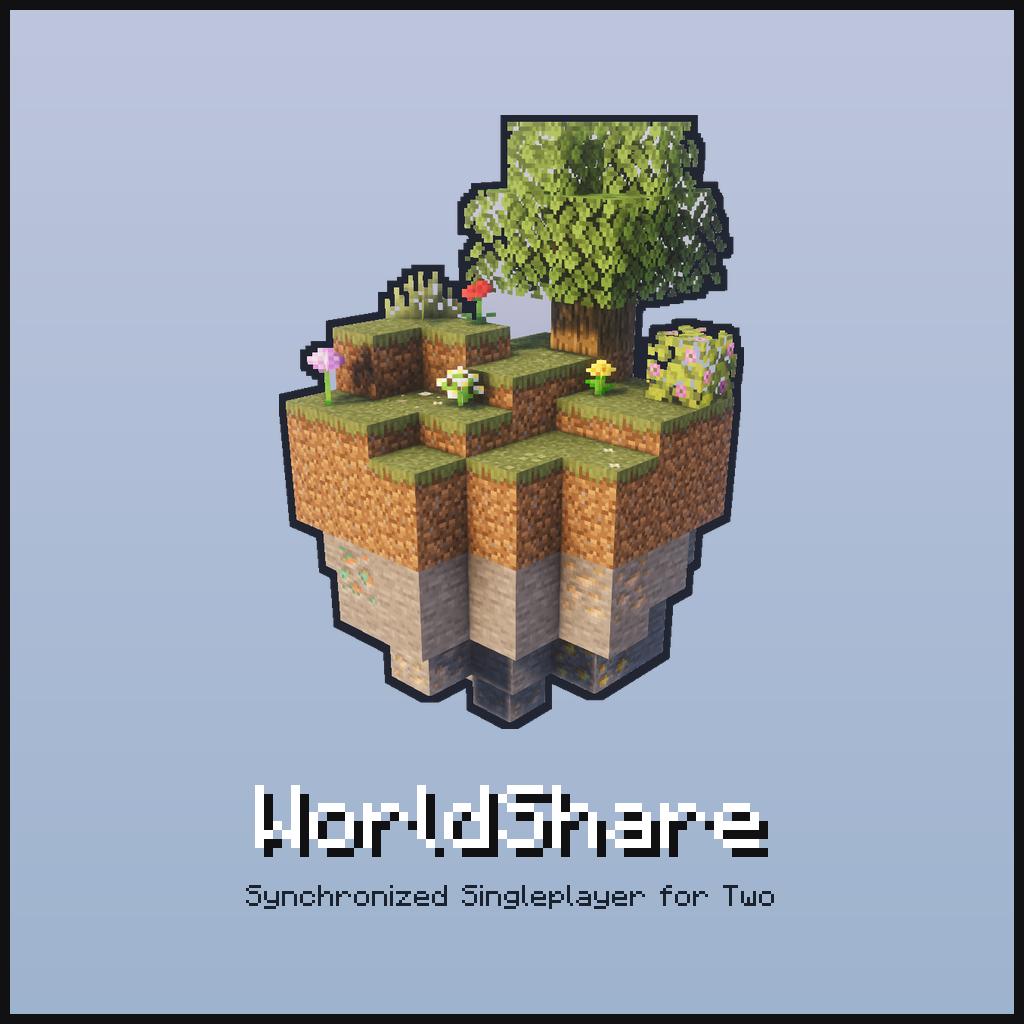
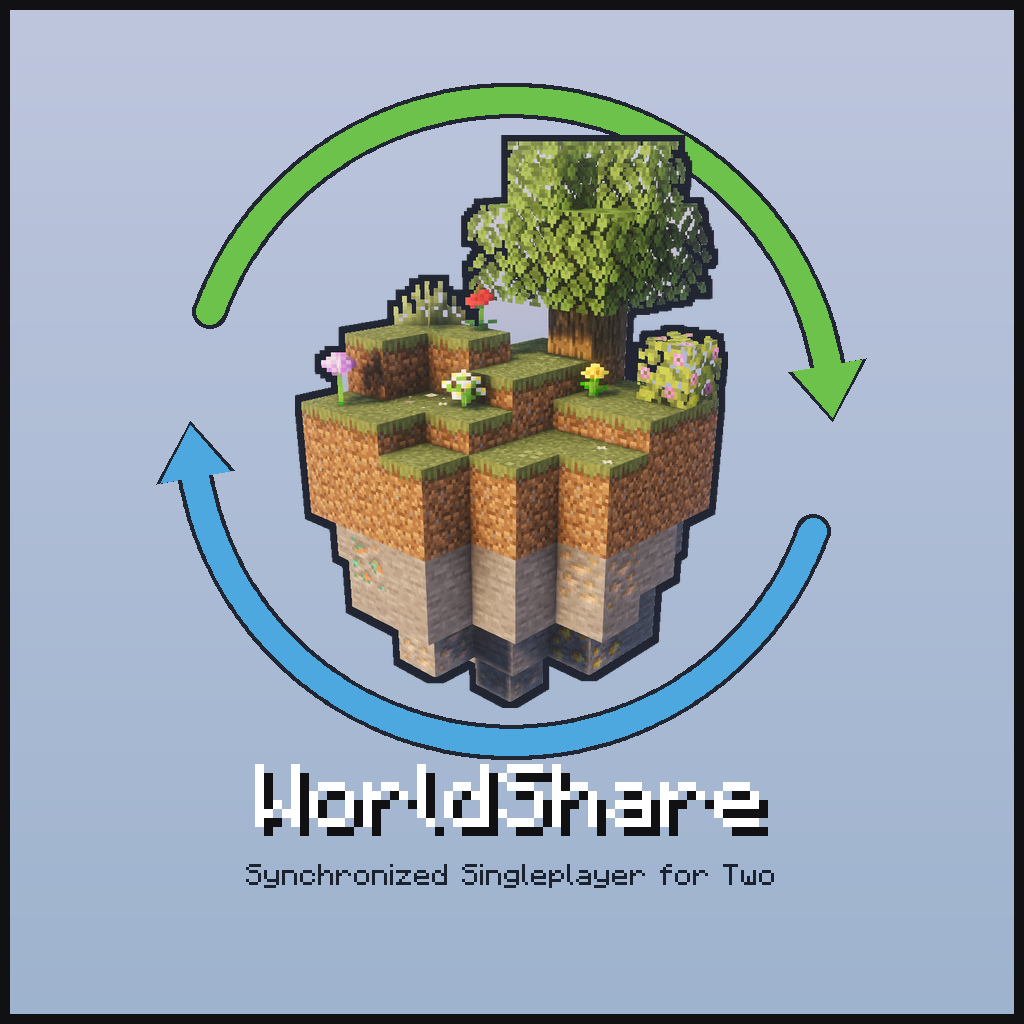
Put the sync ring around the island
Two arrows chasing each other around a circle, in make_icon.py's green
and blue so the two marks agree. Both sweep the same way on purpose: the
mod is one world going out and coming back, not two one-way transfers,
and arrows pointing at each other would say the opposite.

Drawn as a run of overlapping discs rather than with ImageDraw.arc,
which gives no control over its caps and a chunky ring wants round ones.
Each head is built from the arc's own tangent - tip further along the
same circle, base spanning radially - so it points where the curve is
actually going rather than at a guessed angle.

The ring goes behind the island, which is what makes it read as
circling rather than sitting on top.

Changed region(s): [[0.1562, 0.0625, 0.8438, 0.9062]]

diff --git a/docs/branding/make_banner.py b/docs/branding/make_banner.py
@@ -28,6 +28,7 @@ fixed 8x8 grid but the font is not monospaced.
 
 Writes worldshare-banner.png and worldshare-island-512.png beside this script.
 """
+import math
 import os
 import zipfile
 
@@ -61,6 +62,10 @@ OUTLINE_INK = (34, 38, 50)
 
 BORDER_PX = 10           # frame around the whole canvas
 INK = (17, 17, 20)
+
+# The sync ring, in make_icon.py's colours so the two marks agree.
+ARROW_GREEN = (0x6C, 0xC2, 0x4A)
+ARROW_BLUE = (0x4E, 0xA8, 0xE0)
 
 SKY_TOP = (0xBE, 0xC6, 0xDD)
 SKY_BOTTOM = (0x9E, 0xB3, 0xCE)
@@ -180,6 +185,62 @@ def text_width(boxes, text, scale):
     return sum(boxes.get(c, boxes["?"])[1] for c in text) * scale
 
 
+# -------------------------------------------------------------------- arrows
+
+def arc_arrow(layer, cx, cy, radius, a0_deg, a1_deg, width, colour):
+    """One arc with an arrowhead at its far end, outlined to match the island.
+
+    Drawn as a run of overlapping discs rather than with ImageDraw.arc, which
+    has no control over its caps - and a chunky ring wants round ones. Two
+    passes: the outline first, slightly fatter, then the colour over it.
+
+    The head is built from the arc's own tangent. Its tip sits further along
+    the same circle and its base spans radially, so the triangle points where
+    the curve is actually going instead of at a guessed angle.
+    """
+    a0, a1 = math.radians(a0_deg), math.radians(a1_deg)
+    head_len = width * 2.0
+    head_half = width * 1.35
+
+    for pass_w, pass_col in ((width + OUTLINE_PX * 0.9, OUTLINE_INK), (width, colour)):
+        d = ImageDraw.Draw(layer)
+        # The shaft runs right up to the head's base rather than stopping short
+        # of it. The head is wider than the shaft and its tip sits beyond a1, so
+        # the last cap is swallowed by the triangle - shortening only opened a
+        # visible gap between the two.
+        a_end = a1
+        steps = max(24, int(abs(a_end - a0) * radius / 2))
+        for i in range(steps + 1):
+            t = a0 + (a_end - a0) * i / steps
+            x = cx + radius * math.cos(t)
+            y = cy + radius * math.sin(t)
+            r = pass_w / 2.0
+            d.ellipse([x - r, y - r, x + r, y + r], fill=(*pass_col, 255))
+
+        grow = (pass_w - width) / 2.0
+        tip_a = a1 + (head_len + grow) / radius
+        d.polygon([
+            (cx + radius * math.cos(tip_a), cy + radius * math.sin(tip_a)),
+            (cx + (radius + head_half + grow) * math.cos(a1),
+             cy + (radius + head_half + grow) * math.sin(a1)),
+            (cx + (radius - head_half - grow) * math.cos(a1),
+             cy + (radius - head_half - grow) * math.sin(a1)),
+        ], fill=(*pass_col, 255))
+
+
+def sync_ring(size, cx, cy, radius, width):
+    """Two arrows chasing each other around a circle: the round trip.
+
+    Both sweep the same way. The mod is not two one-way transfers, it is one
+    world going out and coming back, and two arrows pointing at each other
+    would say the opposite.
+    """
+    layer = Image.new("RGBA", size, (0, 0, 0, 0))
+    arc_arrow(layer, cx, cy, radius, 200, 350, width, ARROW_GREEN)
+    arc_arrow(layer, cx, cy, radius, 20, 170, width, ARROW_BLUE)
+    return layer
+
+
 # ------------------------------------------------------------------ compose
 
 def sky_backdrop(size):
@@ -202,8 +263,8 @@ def build():
     W = H = 1024
     canvas = sky_backdrop((W, H))
 
-    art_h = int(H * 0.60)
-    scale_f = min(art_h / island.height, (W * 0.80) / island.width)
+    art_h = int(H * 0.56)
+    scale_f = min(art_h / island.height, (W * 0.72) / island.width)
     art = island.resize(
         (max(1, int(island.width * scale_f)), max(1, int(island.height * scale_f))),
         Image.LANCZOS)
@@ -227,7 +288,16 @@ def build():
                + gap_title_sub + glyph_h * sub_scale)
     y = (H - block_h) // 2
 
-    canvas.alpha_composite(art, ((W - art.width) // 2, y))
+    # Behind the island, so the ring passes around and out of sight rather than
+    # sitting on top of it - which is what makes it read as circling.
+    ax, ay = (W - art.width) // 2, y
+    canvas.alpha_composite(sync_ring(
+        (W, H),
+        ax + art.width / 2.0,
+        ay + art.height / 2.0,
+        max(art.width, art.height) * 0.56,
+        max(8, int(W * 0.026))))
+    canvas.alpha_composite(art, (ax, ay))
     y += art.height + gap_art_title
 
     tw = text_width(boxes, TITLE, title_scale)
